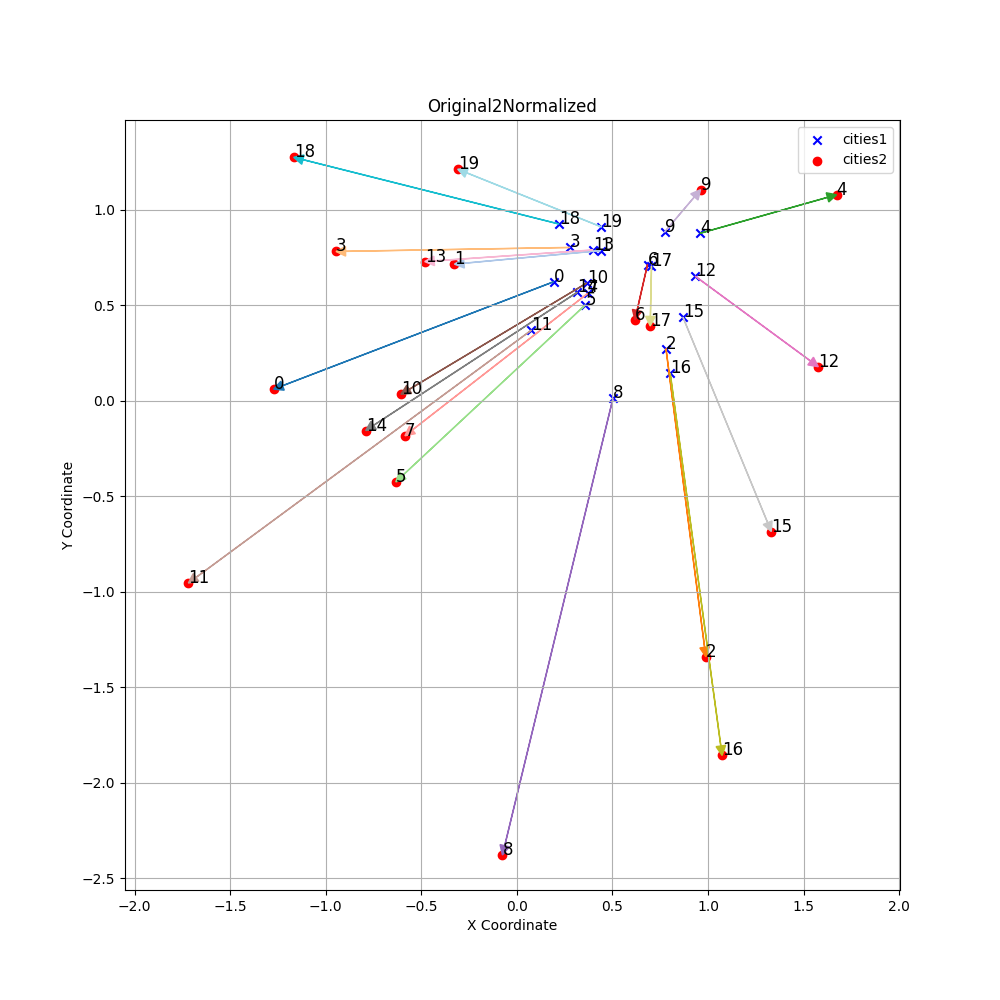
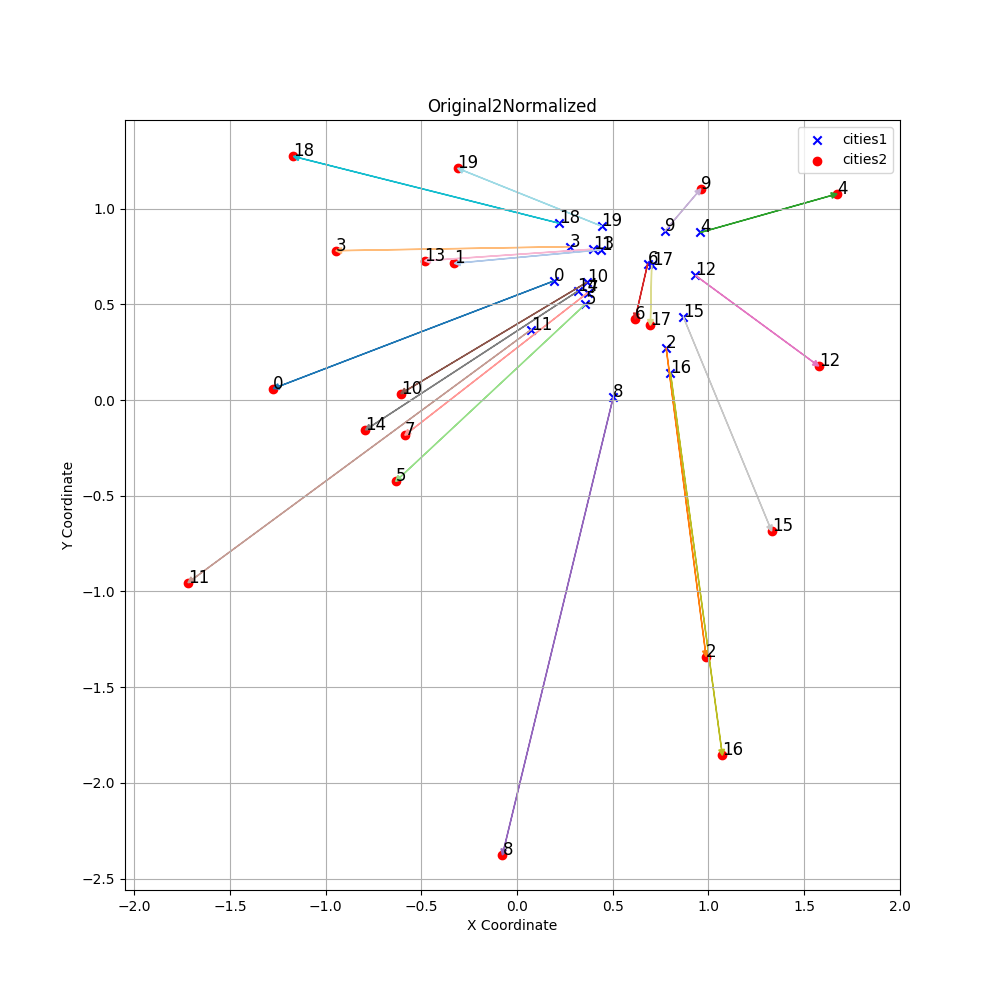
modify plot.py

diff --git a/test.py b/test.py
@@ -1,88 +1,15 @@
-import matplotlib
 import matplotlib.pyplot as plt
 import numpy as np
 from pathlib import Path
 from method import (
     neighbor_aggregation, 
     calculate_distance_matrix,
-    calc_avg_time,
     solve,
     normalize,
     TSPMethod,
 )
-from typing import List
+from plot import plot_cities, plot_route, plot_transform
 
-# plot cities
-def plot_cities(cities:np.ndarray, title:str):
-    plt.figure(figsize=(10, 10))
-    plt.scatter(cities[:, 0], cities[:, 1], c='blue', label='cities', marker='x')
-    plt.plot(cities[0][0], cities[0][1], 'rp', markersize=10, label='Start Point')
-    for i, city in enumerate(cities):
-        plt.annotate(f'{i}', city, fontsize=12)
-    plt.legend()
-    plt.title(title)
-    plt.axis('equal')
-    plt.xlabel('X Coordinate')
-    plt.ylabel('Y Coordinate')
-    plt.grid()
-    img_name = f'images/cities_{title}.png'
-    plt.savefig(img_name)
-    print(f'{img_name} saved')
-
-def plot_transform(cities:np.ndarray, cities_changed:np.ndarray, title:str):
-    colors = matplotlib.colormaps['tab20'] 
-    plt.figure(figsize=(10, 10))
-    plt.scatter(cities[:, 0], cities[:, 1], c='blue', label='cities1', marker='x')
-    plt.scatter(cities_changed[:, 0], cities_changed[:, 1], c='red', label='cities2', marker='o')
-    for i, city in enumerate(cities):
-        plt.annotate(f'{i}', city, fontsize=12)
-    for i, city in enumerate(cities_changed):
-        plt.annotate(f'{i}', city, fontsize=12)
-
-    for idx, (city, city_changed) in enumerate(zip(cities, cities_changed)):
-        plt.arrow(
-            city[0], city[1], 
-            city_changed[0] - city[0], 
-            city_changed[1] - city[1], 
-            head_width=0.05, 
-            head_length=0.05, 
-            length_includes_head=True, 
-            color=colors(idx)
-        )
-    plt.legend()
-    plt.title(title)
-    plt.axis('equal')
-    plt.xlabel('X Coordinate')
-    plt.ylabel('Y Coordinate')
-    plt.grid()
-    img_name = f'images/transform_{title}.png'
-    plt.savefig(img_name)
-    print(f'{img_name} saved')
-
-def plot_route(cities:np.ndarray, distance_matrix_city:np.ndarray, route:List[int], title:str):
-    avg_time, total_time = calc_avg_time(route, distance_matrix_city)
-    plt.figure(figsize=(10, 10))
-    plt.scatter(cities[:, 0], cities[:, 1], c='blue', label='cities', marker='x')
-    plt.plot(cities[0][0], cities[0][1], 'rp', markersize=10, label='Start Point')
-    for i, city in enumerate(cities):
-        plt.annotate(f'{i}', city, fontsize=12)
-    for i in range(len(route) - 1):
-        start, end = route[i], route[i + 1]
-        plt.arrow(
-            cities[start, 0], cities[start, 1], 
-            cities[end, 0] - cities[start, 0], 
-            cities[end, 1] - cities[start, 1],
-            head_width=0.02, length_includes_head=True, linewidth=2
-        )
-    plt.legend()
-    plt.title(f'{title} Routes\nAvg time: {avg_time:.2f}, Total time: {total_time:.2f}')
-    plt.axis('equal')
-    plt.xlabel('X Coordinate')
-    plt.ylabel('Y Coordinate')
-    plt.grid()
-    img_name = f'images/route_{title}.png'
-    plt.savefig(img_name)
-    print(f'{img_name} saved')
 
 def main():
     Path('images').mkdir(exist_ok=True)
@@ -109,7 +36,8 @@ def main():
 
     plot_transform(cities, norm_cities, 'Original2Normalized')
     plot_transform(cities, agg_cities, 'Original2Aggregated')
-    plot_transform(norm_cities, agg_norm_cities, 'Normalized2Aggregated')
+    plot_transform(norm_cities, agg_norm_cities, 'Normalized2Normalized_Aggregated')
+    plot_transform(cities, agg_norm_cities, 'Original2Normalized_Aggregated')
 
     route0 = solve(distance_matrix_city, TSPMethod.NEAREST_NEIGHBOR)
     route1 = solve(distance_matrix_norm_city, TSPMethod.NEAREST_NEIGHBOR)

diff --git a/demo.py b/demo.py
@@ -1,21 +1,25 @@
 import numpy as np
 from scipy.spatial.distance import cdist
-from method import TSPMethod, solve, calculate_total_distance, neighbor_aggregation
+from method import TSPMethod, solve, calc_avg_time, neighbor_aggregation, normalize
 from typing import List, Tuple
 from tqdm import tqdm
 
-def solve_tsp(cities: np.ndarray, is_agg:bool = True) -> Tuple[List[int], float]:
-    if is_agg:
-        agg_cities = neighbor_aggregation(cities)
+def solve_tsp(cities: np.ndarray, is_agg:bool = True, is_norm:bool = True) -> Tuple[List[int], float]:
+    if is_agg == True and is_norm == True:
+        transform_cities = neighbor_aggregation(normalize(cities, axis=0))
+    elif is_agg == True and is_norm == False:
+        transform_cities = neighbor_aggregation(cities)
+    elif is_agg == False and is_norm == True:
+        transform_cities = normalize(cities, axis=0)
     else:
-        agg_cities = cities
-    distance_matrix = cdist(agg_cities, agg_cities, metric='euclidean')
+        transform_cities = cities
+    distance_matrix = cdist(transform_cities, transform_cities, metric='euclidean')
     method = TSPMethod.NEAREST_NEIGHBOR
     best_tour = solve(distance_matrix, method)
 
     distance_matrix = cdist(cities, cities, metric='euclidean')
-    total_distance = calculate_total_distance(best_tour, distance_matrix)
-    return best_tour, total_distance
+    avg_time, total_time = calc_avg_time(best_tour, distance_matrix)
+    return best_tour, avg_time, total_time
 
 def main():
     # generate random data
@@ -26,22 +30,33 @@ def main():
 
     pbar = tqdm(total=dataset_size, desc='Processing', dynamic_ncols=True)
     scale_num = 50
-    result_list = []
-    agg_result_list = []
+    result = {
+        'original': [],
+        'agg': [],
+        'norm': [],
+        'agg_norm': []
+    }
     for i in range(dataset_size):
         cities = data[i][:scale_num]
 
-        best_tour, total_distance = solve_tsp(cities, is_agg=False)
-        result_list.append({'tour': best_tour, 'total_distance': total_distance})
+        best_tour, avg_time, total_time = solve_tsp(cities, is_agg=False, is_norm=False)
+        result['original'].append({'tour': best_tour, 'avg_time': avg_time, 'total_time': total_time})
 
-        best_tour, total_distance = solve_tsp(cities, is_agg=True)
-        agg_result_list.append({'tour': best_tour, 'total_distance': total_distance})
+        best_tour, avg_time, total_time = solve_tsp(cities, is_agg=False, is_norm=True)
+        result['norm'].append({'tour': best_tour, 'avg_time': avg_time, 'total_time': total_time})
+
+        best_tour, avg_time, total_time = solve_tsp(cities, is_agg=True, is_norm=False)
+        result['agg'].append({'tour': best_tour, 'avg_time': avg_time, 'total_time': total_time})
+
+        best_tour, avg_time, total_time = solve_tsp(cities, is_agg=True, is_norm=True)
+        result['agg_norm'].append({'tour': best_tour, 'avg_time': avg_time, 'total_time': total_time})
         pbar.update(1)
     pbar.close()
-    avg_distance = np.mean([result['total_distance'] for result in result_list])
-    print(f'Average distance: {avg_distance}')
-    avg_distance = np.mean([result['total_distance'] for result in agg_result_list])
-    print(f'Average distance with aggregation: {avg_distance}')
+
+    for key in result.keys():
+        mean_total_time = np.mean([x['total_time'] for x in result[key]])
+        mean_avg_time = np.mean([x['avg_time'] for x in result[key]])
+        print(f'{key} total_time: {mean_total_time}, avg_time: {mean_avg_time}')
 
 if __name__ == '__main__':
     main()

diff --git a/plot.py b/plot.py
@@ -1,5 +1,9 @@
 import numpy as np
 import matplotlib.pyplot as plt
+import matplotlib
+from typing import List
+from method import calc_avg_time
+
 def plot_tsp_solution(
         cities: np.ndarray, 
         tour: list, 
@@ -34,3 +38,75 @@ def plot_tsp_solution(
     plt.grid(True)
     plt.savefig(f"images/{title.replace(' ', '_')}.png")
     print(f"Plot saved as images/{title.replace(' ', '_')}.png")
+
+# plot cities
+def plot_cities(cities:np.ndarray, title:str):
+    plt.figure(figsize=(10, 10))
+    plt.scatter(cities[:, 0], cities[:, 1], c='blue', label='cities', marker='x')
+    plt.plot(cities[0][0], cities[0][1], 'rp', markersize=10, label='Start Point')
+    for i, city in enumerate(cities):
+        plt.annotate(f'{i}', city, fontsize=12)
+    plt.legend()
+    plt.title(title)
+    plt.axis('equal')
+    plt.xlabel('X Coordinate')
+    plt.ylabel('Y Coordinate')
+    plt.grid()
+    img_name = f'images/cities_{title}.png'
+    plt.savefig(img_name)
+    print(f'{img_name} saved')
+
+def plot_transform(cities:np.ndarray, cities_changed:np.ndarray, title:str):
+    colors = matplotlib.colormaps['tab20'] 
+    plt.figure(figsize=(10, 10))
+    plt.scatter(cities[:, 0], cities[:, 1], c='blue', label='cities1', marker='x')
+    plt.scatter(cities_changed[:, 0], cities_changed[:, 1], c='red', label='cities2', marker='o')
+    for i, city in enumerate(cities):
+        plt.annotate(f'{i}', city, fontsize=12)
+    for i, city in enumerate(cities_changed):
+        plt.annotate(f'{i}', city, fontsize=12)
+
+    for idx, (city, city_changed) in enumerate(zip(cities, cities_changed)):
+        plt.arrow(
+            city[0], city[1], 
+            city_changed[0] - city[0], 
+            city_changed[1] - city[1], 
+            head_width=0.03, 
+            head_length=0.03, 
+            length_includes_head=True, 
+            color=colors(idx)
+        )
+    plt.legend()
+    plt.title(title)
+    plt.axis('equal')
+    plt.xlabel('X Coordinate')
+    plt.ylabel('Y Coordinate')
+    plt.grid()
+    img_name = f'images/transform_{title}.png'
+    plt.savefig(img_name)
+    print(f'{img_name} saved')
+
+def plot_route(cities:np.ndarray, distance_matrix_city:np.ndarray, route:List[int], title:str):
+    avg_time, total_time = calc_avg_time(route, distance_matrix_city)
+    plt.figure(figsize=(10, 10))
+    plt.scatter(cities[:, 0], cities[:, 1], c='blue', label='cities', marker='x')
+    plt.plot(cities[0][0], cities[0][1], 'rp', markersize=10, label='Start Point')
+    for i, city in enumerate(cities):
+        plt.annotate(f'{i}', city, fontsize=12)
+    for i in range(len(route) - 1):
+        start, end = route[i], route[i + 1]
+        plt.arrow(
+            cities[start, 0], cities[start, 1], 
+            cities[end, 0] - cities[start, 0], 
+            cities[end, 1] - cities[start, 1],
+            head_width=0.02, length_includes_head=True, linewidth=2
+        )
+    plt.legend()
+    plt.title(f'{title} Routes\nAvg time: {avg_time:.2f}, Total time: {total_time:.2f}')
+    plt.axis('equal')
+    plt.xlabel('X Coordinate')
+    plt.ylabel('Y Coordinate')
+    plt.grid()
+    img_name = f'images/route_{title}.png'
+    plt.savefig(img_name)
+    print(f'{img_name} saved')
